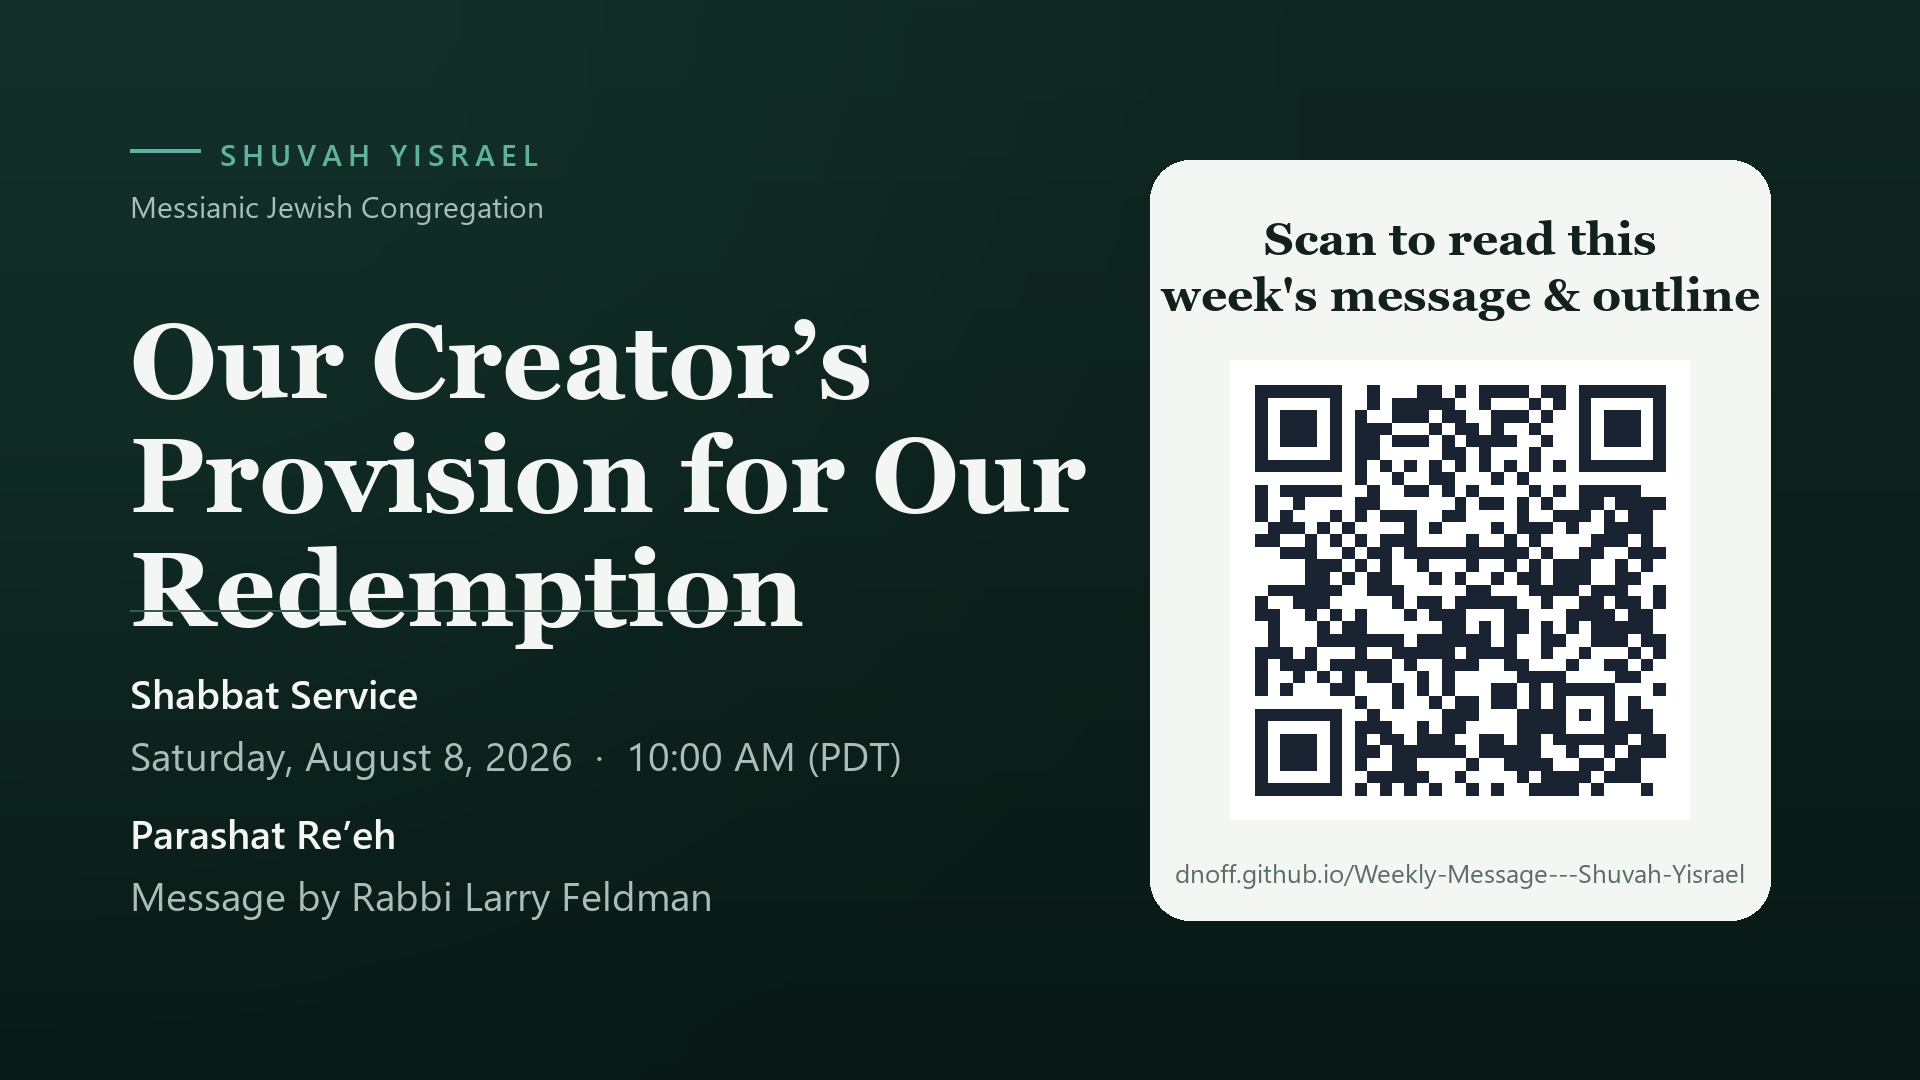
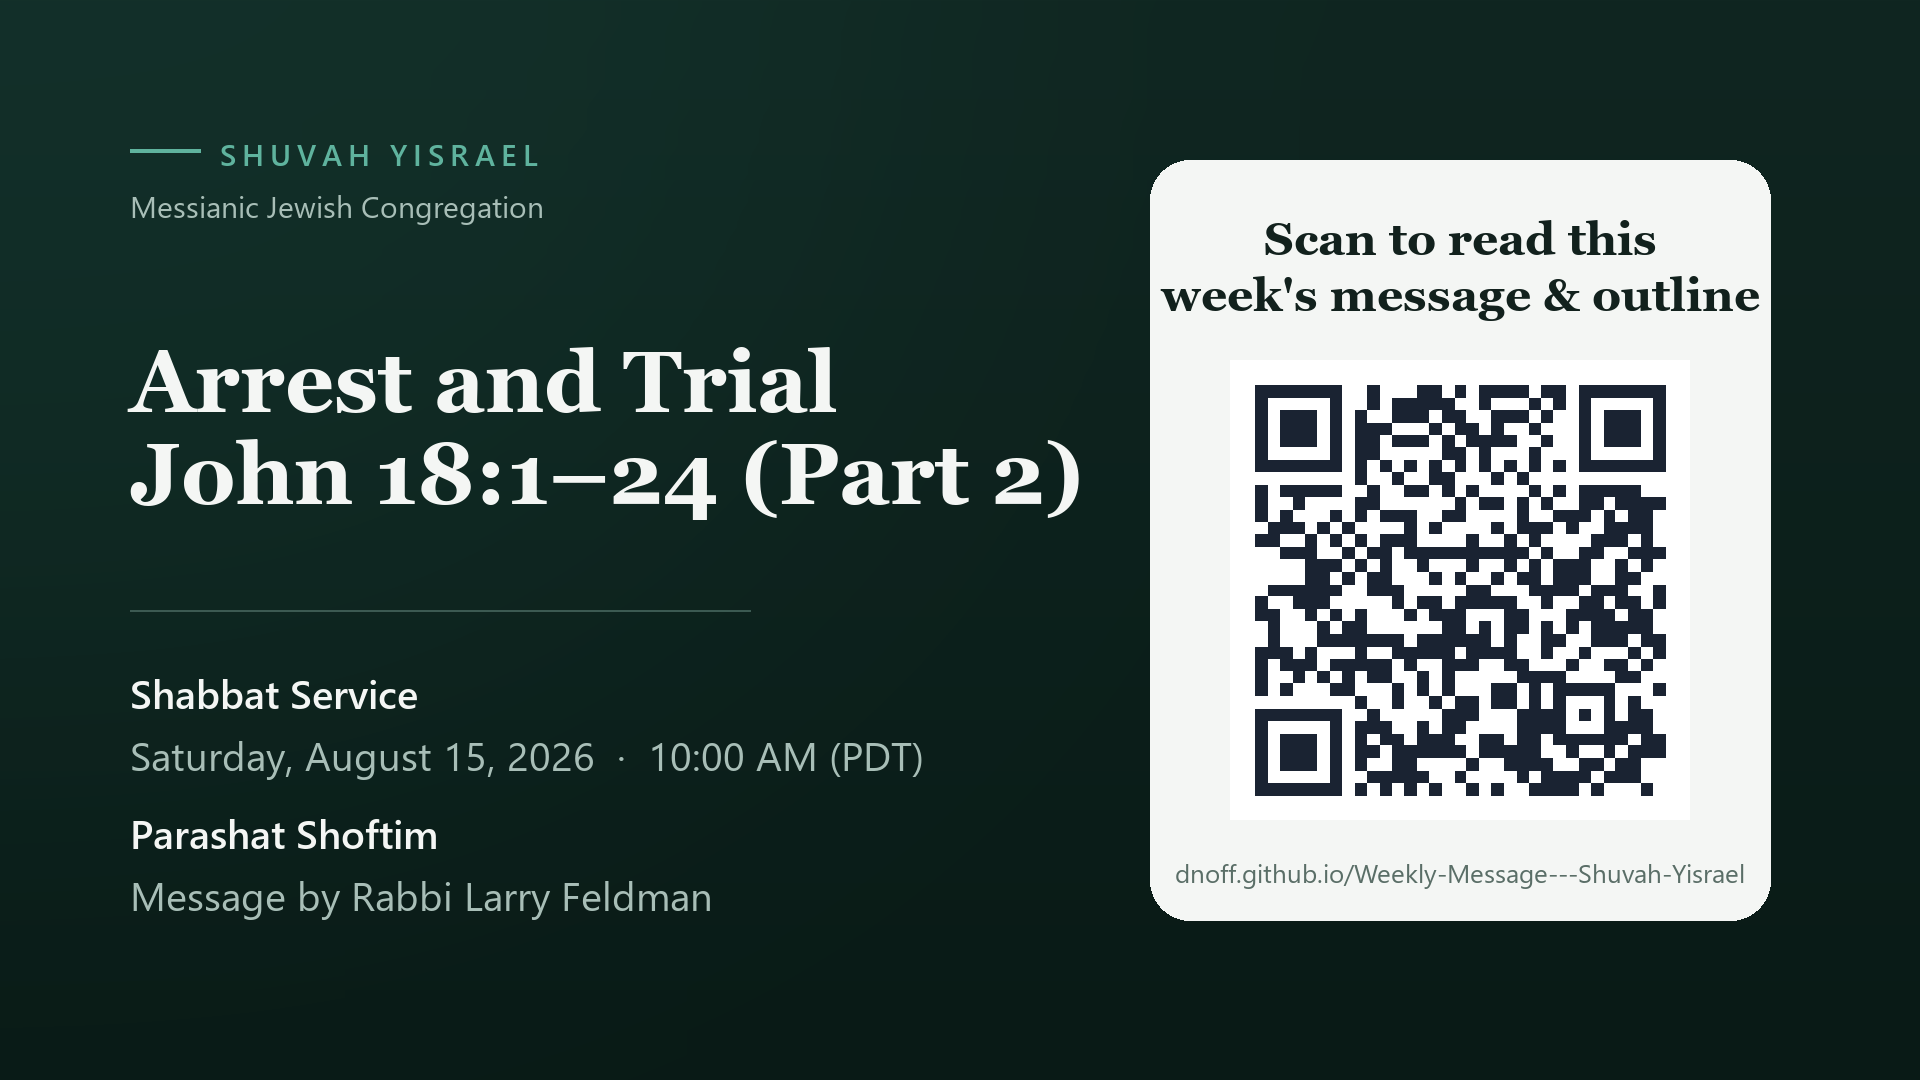
Add Aug 15 Arrest and Trial Part 2 message and bulletin. EOF

diff --git a/docs/weeks/index.html b/docs/weeks/index.html
@@ -383,6 +383,12 @@ body {
       <p class="meta">Message &amp; outline for the week</p>
     </header>
     <ul class="week-list"><li>
+      <a href="2026-08-15/">
+        <span class="week-title">Arrest and Trial — John 18:1–24 (Part 2)</span>
+        <span class="week-date">August 15, 2026 · 2 Elul 5786</span>
+      </a>
+    </li>
+<li>
       <a href="2026-08-08/">
         <span class="week-title">Our Creator’s Provision for Our Redemption</span>
         <span class="week-date">August 8, 2026 · 25 Av 5786</span>

diff --git a/docs/weeks/2026-08-15/index.html b/docs/weeks/2026-08-15/index.html
@@ -374,9 +374,9 @@ body {
   <div class="bg" aria-hidden="true"></div>
   <main class="sheet">
     <nav class="nav nav-top">
-          <a href="./" class="nav-current">This week</a>
-          <a href="weeks/">Past weeks</a>
-        </nav>
+        <a href="../">This week</a>
+        <a href="./">Past weeks</a>
+      </nav>
     <header class="top">
       <p class="brand">Shuvah Yisrael</p>
       <p class="badge">This week</p>

diff --git a/docs/weeks/2026-08-08/index.html b/docs/weeks/2026-08-08/index.html
@@ -379,7 +379,7 @@ body {
       </nav>
     <header class="top">
       <p class="brand">Shuvah Yisrael</p>
-      <p class="badge">This week</p>
+      <p class="badge badge-archive">Archive</p>
       <h1>Our Creator’s Provision for Our Redemption</h1>
       <p class="meta">James E. Reppert, Th.M. · Guest Speaker · Week of August 8, 2026 · 25 Av 5786</p>
     </header>

diff --git a/weeks/2026-08-15.md b/weeks/2026-08-15.md
@@ -1,0 +1,155 @@
+---
+title: Arrest and Trial — John 18:1–24 (Part 2)
+date: 2026-08-15
+weekOf: August 15, 2026 · 2 Elul 5786
+---
+
+## Shabbat at Shuvah Yisrael
+
+**Parashat Shoftim** · פרשת שופטים  
+**Torah:** Deuteronomy 16:18 – 21:9  
+**Haftarah:** Isaiah 51:12 – 52:12  
+
+**Shabbat Service** — 10:00 AM (PDT)  
+Livestream: [www.shuvahyisrael.org](https://www.shuvahyisrael.org) · [YouTube](https://www.youtube.com/@ShuvahYisrael)  
+Email: [info@shuvahyisrael.org](mailto:info@shuvahyisrael.org)
+
+### Service Order
+
+1. Songs of Worship  
+2. Hebrew Liturgy  
+3. Scripture Reading: Deuteronomy 18:15–19 and Acts 3:18–26  
+4. Announcements & Offering  
+5. Songs of Worship *(Children dismissed for Shabbat School)*  
+6. **Message:** Arrest and Trial — John 18:1–24 (Part 2) · Rabbi Larry Feldman  
+7. Closing Benediction  
+
+### Word for the Week · מילת השבוע
+
+> Honesty is the first chapter of the book of wisdom.  
+> — **Romans 12:17b**
+
+### Reading the Bible Together
+
+Joshua 21 – 24 and Judges 1 – 3
+
+---
+
+## Message Outline
+
+*Arrest and Trial — John 18:1–24 (Part 2)*  
+Rabbi Larry Feldman · August 15, 2026 · 2 Elul 5786
+
+**Main Idea:** We should be willing to follow and identify with Yeshua because He is God and Messiah.
+
+### Opening Scripture
+
+**2 Kings 2:1–2, 4, 6**  
+1 And it came about when the Lord was about to take up Elijah by a whirlwind to heaven, that Elijah went with Elisha from Gilgal. 2 Elijah said to Elisha, “Stay here please, for the Lord has sent me as far as Bethel.” But Elisha said, “As the Lord lives and as you yourself live, I will not leave you.” So they went down to Bethel. 4 Elijah said to him, “Elisha, please stay here, for the Lord has sent me to Jericho.” But he said, “As the Lord lives, and as you yourself live, I will not leave you.” So they came to Jericho. 6 Then Elijah said to him, “Please stay here, for the Lord has sent me to the Jordan.” And he said, “As the Lord lives, and as you yourself live, I will not leave you.” So the two of them went on.
+
+### I. In Yeshua’s arrest, we see He is God, but also a shepherd
+
+#### A. Yeshua and followers in the garden
+
+**John 18:1**  
+1 When Yeshua had spoken these words, He went forth with His disciples over the ravine of the Kidron, where there was a garden, in which He entered with His disciples.
+
+**John 18:2**  
+2 Now Judas also, who was betraying Him, knew the place, for Yeshua had often met there with His disciples.
+
+#### B. Yeshua arrested in the garden shows who He is
+
+**John 18:3**  
+3 Judas then, having received the Roman cohort and officers from the chief priests and the Pharisees, came there with lanterns and torches and weapons.
+
+**John 18:4**  
+4 So Yeshua, knowing all the things that were coming upon Him, went forth and said to them, “Whom do you seek?”
+
+**John 10:11, 15, 18**  
+11 “I am the good shepherd; the good shepherd lays down His life for the sheep. 15 even as the Father knows Me and I know the Father; and I lay down My life for the sheep. 18 No one has taken it away from Me, but I lay it down on My own initiative. I have authority to lay it down, and I have authority to take it up again. This commandment I received from My Father.”
+
+**John 18:5–6**  
+5 They answered Him, “Yeshua the Nazarene.” He said to them, “I am He.” And Judas also, who was betraying Him, was standing with them. 6 So when He said to them, “I am He,” they drew back and fell to the ground.
+
+**Matthew 7:28–29**  
+28 When Yeshua had finished these words, the crowds were amazed at His teaching; 29 for He was teaching them as one having authority, and not as their scribes.
+
+**John 7:45–46**  
+45 The officers then came to the chief priests and Pharisees, and they said to them, “Why did you not bring Him?” 46 The officers answered, “Never has a man spoken the way this man speaks.”
+
+**John 18:7–9**  
+7 Therefore He again asked them, “Whom do you seek?” And they said, “Yeshua the Nazarene.” 8 Yeshua answered, “I told you that I am He; so if you seek Me, let these go their way,” 9 to fulfill the word which He spoke, “Of those whom You have given Me I lost not one.”
+
+**John 6:37–40**  
+37 All that the Father gives Me will come to Me, and the one who comes to Me I will certainly not cast out. 38 For I have come down from heaven, not to do My own will, but the will of Him who sent Me. 39 This is the will of Him who sent Me, that of all that He has given Me I lose nothing, but raise it up on the last day. 40 For this is the will of My Father, that everyone who beholds the Son and believes in Him will have eternal life, and I Myself will raise him up on the last day.”
+
+**John 10:10–11, 14**  
+10 The thief comes only to steal and kill and destroy; I came that they may have life, and have it abundantly. 11 “I am the good shepherd; the good shepherd lays down His life for the sheep. 14 I am the good shepherd, and I know My own and My own know Me,
+
+**John 18:10**  
+10 Simon Peter then, having a sword, drew it and struck the high priest’s slave, and cut off his right ear; and the slave’s name was Malchus.
+
+**Matthew 16:16–19**  
+16 Simon Peter answered, “You are the Messiah, the Son of the living God.” 17 And Yeshua said to him, “Blessed are you, Simon Barjona, because flesh and blood did not reveal this to you, but My Father who is in heaven. 18 I also say to you that you are Peter, and upon this rock I will build My congregation; and the gates of Hades will not overpower it. 19 I will give you the keys of the kingdom of heaven; and whatever you bind on earth shall have been bound in heaven, and whatever you loose on earth shall have been loosed in heaven.”
+
+**John 18:11**  
+11 So Yeshua said to Peter, “Put the sword into the sheath; the cup which the Father has given Me, shall I not drink it?”
+
+**Luke 24:25–27, 44–48**  
+25 And He said to them, “O foolish men and slow of heart to believe in all that the prophets have spoken! 26 Was it not necessary for the Messiah to suffer these things and to enter into His glory?” 27 Then beginning with Moses and with all the prophets, He explained to them the things concerning Himself in all the Scriptures. 44 Now He said to them, “These are My words which I spoke to you while I was still with you, that all things which are written about Me in the Law of Moses and the Prophets and the Psalms must be fulfilled.” 45 Then He opened their minds to understand the Scriptures, 46 and He said to them, “Thus it is written, that the Messiah would suffer and rise again from the dead the third day, 47 and that repentance for forgiveness of sins would be proclaimed in His name to all the nations, beginning from Jerusalem. 48 You are witnesses of these things.
+
+> Therefore: We should be willing to follow and identify with Yeshua because He is God and a shepherd.
+
+*Next: In Yeshua’s trials, we see that He is Messiah and also a sacrifice.*
+
+### II. In Yeshua’s trials, we see He is Messiah, but also a sacrifice
+
+#### A. Yeshua is a willing, volunteering, sacrificial sacrifice
+
+**John 18:12–14**  
+12 So the Roman cohort and the commander and the officers of the Jews, arrested Yeshua and bound Him, 13 and led Him to Annas first; for he was father-in-law of Caiaphas, who was high priest that year. 14 Now Caiaphas was the one who had advised the Jews that it was expedient for one man to die on behalf of the people.
+
+**John 11:49–53**  
+49 But one of them, Caiaphas, who was high priest that year, said to them, “You know nothing at all, 50 nor do you take into account that it is expedient for you that one man die for the people, and that the whole nation not perish.” 51 Now he did not say this on his own initiative, but being high priest that year, he prophesied that Yeshua was going to die for the nation, 52 and not for the nation only, but in order that He might also gather together into one the children of God who are scattered abroad. 53 So from that day on they planned together to kill Him.
+
+**Isaiah 53:3–6, 8, 10–12**  
+3 He was despised and forsaken of men, a man of sorrows and acquainted with grief; and like one from whom men hide their face He was despised, and we did not esteem Him. 4 Surely our griefs He Himself bore, and our sorrows He carried; yet we ourselves esteemed Him stricken, smitten of God, and afflicted. 5 But He was pierced through for our transgressions, He was crushed for our iniquities; the chastening for our well-being fell upon Him, and by His scourging we are healed. 6 All of us like sheep have gone astray, each of us has turned to his own way; but the Lord has caused the iniquity of us all to fall on Him. 8 By oppression and judgment He was taken away; and as for His generation, who considered That He was cut off out of the land of the living For the transgression of my people, to whom the stroke was due? 10 But the Lord was pleased to crush Him, putting Him to grief; if He would render Himself as a guilt offering, He will see His offspring, He will prolong His days, and the good pleasure of the Lord will prosper in His hand. 11 As a result of the anguish of His soul, He will see it and be satisfied; by His knowledge the Righteous One, My Servant, will justify the many, as He will bear their iniquities. 12 Therefore, I will allot Him a portion with the great, and He will divide the booty with the strong; because He poured out Himself to death, and was numbered with the transgressors; yet He Himself bore the sin of many, and interceded for the transgressors.
+
+#### B. We should be ready, trained, and discipled
+
+**Matthew 26:57–58**  
+57 Those who had seized Yeshua led Him away to Caiaphas, the high priest, where the scribes and the elders were gathered together. 58 But Peter was following Him at a distance as far as the courtyard of the high priest, and entered in, and sat down with the officers to see the outcome.
+
+**John 18:15–18**  
+15 Simon Peter was following Yeshua, and so was another disciple. Now that disciple was known to the high priest, and entered with Yeshua into the court of the high priest, 16 but Peter was standing at the door outside. So the other disciple, who was known to the high priest, went out and spoke to the doorkeeper, and brought Peter in. 17 Then the slave-girl who kept the door said to Peter, “You are not also one of this man’s disciples, are you?” He said, “I am not.” 18 Now the slaves and the officers were standing there, having made a charcoal fire, for it was cold and they were warming themselves; and Peter was also with them, standing and warming himself.
+
+**Luke 22:54–62**  
+54 Having arrested Him, they led Him away and brought Him to the house of the high priest; but Peter was following at a distance. 55 After they had kindled a fire in the middle of the courtyard and had sat down together, Peter was sitting among them. 56 And a servant-girl, seeing him as he sat in the firelight and looking intently at him, said, “This man was with Him too.” 57 But he denied it, saying, “Woman, I do not know Him.” 58 A little later, another saw him and said, “You are one of them too!” But Peter said, “Man, I am not!” 59 After about an hour had passed, another man began to insist, saying, “Certainly this man also was with Him, for he is a Galilean too.” 60 But Peter said, “Man, I do not know what you are talking about.” Immediately, while he was still speaking, a rooster crowed. 61 The Lord turned and looked at Peter. And Peter remembered the word of the Lord, how He had told him, “Before a rooster crows today, you will deny Me three times.” 62 And he went out and wept bitterly.
+
+**Matthew 26:59–68**  
+59 Now the chief priests and the whole Council kept trying to obtain false testimony against Yeshua, so that they might put Him to death. 60 They did not find any, even though many false witnesses came forward. But later on two came forward, 61 and said, “This man stated, ‘I am able to destroy the temple of God and to rebuild it in three days.’” 62 The high priest stood up and said to Him, “Do You not answer? What is it that these men are testifying against You?” 63 But Yeshua kept silent. And the high priest said to Him, “I adjure You by the living God, that You tell us whether You are the Messiah, the Son of God.” 64 Yeshua said to him, “You have said it yourself; nevertheless I tell you, hereafter you will see the Son of Man sitting at the right hand of Power, and coming on the clouds of heaven.” 65 Then the high priest tore his robes and said, “He has blasphemed! What further need do we have of witnesses? Behold, you have now heard the blasphemy; 66 what do you think?” They answered, “He deserves death!” 67 Then they spat in His face and beat Him with their fists; and others slapped Him, 68 and said, “Prophesy to us, You Messiah; who is the one who hit You?”
+
+**Matthew 27:1–2**  
+1 Now when morning came, all the chief priests and the elders of the people conferred together against Yeshua to put Him to death; 2 and they bound Him, and led Him away and delivered Him to Pilate the governor.
+
+**1 Peter 3:14–15**  
+14 But even if you should suffer for the sake of righteousness, you are blessed. And do not fear their intimidation, and do not be troubled, 15 but sanctify Messiah as Lord in your hearts, always being ready to make a defense to everyone who asks you to give an account for the hope that is in you, yet with gentleness and reverence;
+
+#### C. We should know who Yeshua is
+
+**John 18:19–23**  
+19 The high priest then questioned Yeshua about His disciples, and about His teaching. 20 Yeshua answered him, “I have spoken openly to the world; I always taught in synagogues and in the temple, where all the Jews come together; and I spoke nothing in secret. 21 Why do you question Me? Question those who have heard what I spoke to them; they know what I said.” 22 When He had said this, one of the officers standing nearby struck Yeshua, saying, “Is that the way You answer the high priest?” 23 Yeshua answered him, “If I have spoken wrongly, testify of the wrong; but if rightly, why do you strike Me?”
+
+---
+
+### Conclusion
+
+**Main Idea:** We should be willing to follow and identify with Yeshua because He is God and Messiah.
+
+---
+
+### Welcome · ברוך הבא
+
+If you are new to Shuvah Yisrael, we welcome you. Please ask one of the leaders after service, or contact us at [info@shuvahyisrael.org](mailto:info@shuvahyisrael.org).
+
+*Messianic Rabbi: Larry Feldman*
